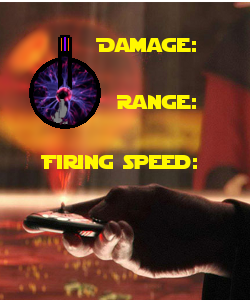
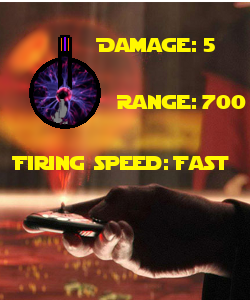
generator, info

Changed region(s): [[0.028, 0.51, 0.924, 0.57], [0.812, 0.3, 0.98, 0.36], [0.812, 0.12, 0.868, 0.18]]

diff --git a/arena.cpp b/arena.cpp
@@ -17,9 +17,10 @@ Arena::Arena(QPixmap *p)
     qp=p;
     amount=800;
 
-    LifeBar* l= new LifeBar(1000);
+    LifeBar* l= new LifeBar(1000,250);
 
     this->addPixmap(*qp);
+
 
     deathStar= new DeathStar();
     deathStar->setPos(qp->size().width()/2,qp->size().height()/2);
@@ -28,6 +29,28 @@ Arena::Arena(QPixmap *p)
 
     l->setPos(deathStar->scenePos());
     l->translate(-250,170);
+
+
+    gen1=new Generator();
+    gen2=new Generator();
+
+    LifeBar* lifgen1=new LifeBar(250,100);
+    LifeBar* lifgen2=new LifeBar(250,100);
+
+    gen1->setLifeBar(lifgen1);
+    gen2->setLifeBar(lifgen2);
+
+    gen1->setPos(600,qp->size().height()-600);
+
+    gen2->setPos(qp->size().width()-500,qp->size().height()/2-200);
+
+    lifgen1->setPos(gen1->scenePos());
+    lifgen1->translate(-250,100);
+
+    lifgen2->setPos(gen2->scenePos());
+    lifgen2->translate(-250,100);
+
+
     deploy1=new Deploy();
     deploy1->deployEnemy(0);
     deploy1->setPos(60,60);
@@ -43,8 +66,13 @@ Arena::Arena(QPixmap *p)
 
     this->addItem(deploy1);
     this->addItem(deploy2);
+    this->addItem(gen1);
+    this->addItem(gen2);
+    this->addItem(lifgen1);
+    this->addItem(lifgen2);
     this->addItem(deathStar);
     this->addItem(l);
+
 }
 
 void Arena::step()
@@ -62,6 +90,30 @@ void Arena::step()
             {
                 enemy->hit(10000);
             }
+        }
+    }
+
+    if(gen1->deactive==false)
+    {
+        gen1->step();
+        if(gen1->life<=0)
+        {
+            Explosion* exp=factoy.getExplosion(300);
+            exp->setPos(gen1->scenePos());
+            gen1->hide();
+            gen1->deactive=true;
+        }
+    }
+
+    if(gen2->deactive==false)
+    {
+        gen2->step();
+        if(gen2->life<=0)
+        {
+            Explosion* exp=factoy.getExplosion(300);
+            exp->setPos(gen2->scenePos());
+            gen2->hide();
+            gen2->deactive=true;
         }
     }
 
@@ -160,35 +212,46 @@ void Arena::mousePressEvent(QGraphicsSceneMouseEvent *event)
 {
     if(amount>0)
     {
-        if(gun==A_PRISM)
+
+        int x=event->scenePos().x();
+        int y=event->scenePos().y();
+
+        if((deathStar->scenePos().x()-x)*(deathStar->scenePos().x()-x)
+                +(deathStar->scenePos().y()-y)*(deathStar->scenePos().y()-y)<=300*300)
         {
-            PrismTower* prism1= new PrismTower();
-
-            prism1->setPos(event->scenePos().x(),event->scenePos().y());
-
-            prism1->setRadius(300);
-            prism1->setBoundingRect(QRectF(-150,-150,300,300));
-
-            Prism* missile=new Prism();
-            prism1->addPrism(missile);
-
-            towers.insert(prism1);
-            this->addItem(prism1);
-            this->addItem(missile);
-
-            amount-=prism1->getCost();
-            info->setNum(amount);
-        }else if(gun==A_PLASMA)
+            std::cout<<" brak dostepu"<<std::endl;
+        }else
         {
-            PlasmaTower* plasma= new PlasmaTower();
-            plasma->setPos(event->scenePos().x(),event->scenePos().y());
-            plasma->setRadius(800);
-            plasma->setBoundingRect(QRectF(-150,-150,300,300));
-            this->addItem(plasma);
-            towers.insert(plasma);
+            if(gun==A_PRISM)
+            {
+                PrismTower* prism1= new PrismTower();
 
-            amount-=plasma->getCost();
-            info->setNum(amount);
+                prism1->setPos(event->scenePos().x(),event->scenePos().y());
+
+                prism1->setRadius(300);
+                prism1->setBoundingRect(QRectF(-150,-150,300,300));
+
+                Prism* missile=new Prism();
+                prism1->addPrism(missile);
+
+                towers.insert(prism1);
+                this->addItem(prism1);
+                this->addItem(missile);
+
+                amount-=prism1->getCost();
+                info->setNum(amount);
+            }else if(gun==A_PLASMA)
+            {
+                PlasmaTower* plasma= new PlasmaTower();
+                plasma->setPos(event->scenePos().x(),event->scenePos().y());
+                plasma->setRadius(700);
+                plasma->setBoundingRect(QRectF(-150,-150,300,300));
+                this->addItem(plasma);
+                towers.insert(plasma);
+
+                amount-=plasma->getCost();
+                info->setNum(amount);
+            }
         }
     }else
     {

diff --git a/generator.h b/generator.h
@@ -1,0 +1,46 @@
+#ifndef GENERATOR_H
+#define GENERATOR_H
+
+
+#include <QGraphicsItem>
+#include <QPainter>
+#include <QStyleOption>
+#include "lifebar.h"
+
+class Generator: public QGraphicsItem
+{
+public:
+    Generator();
+
+    void paint(QPainter *painter, const QStyleOptionGraphicsItem *option,
+               QWidget *widget);
+
+    QRectF boundingRect() const;
+    void setBoundingRect(QRectF);
+
+    void step();
+    inline void hit(double i)
+    {
+        life-=i;
+        lifebar->updateLife(life);
+        if(life<=0)
+        {
+            lifebar->hide();
+        }
+    }
+
+    inline void setLifeBar(LifeBar *l)
+    {
+        lifebar=l;
+    }
+
+    bool deactive;
+    double life;
+
+protected:
+
+    LifeBar* lifebar;
+    QRectF m_boundingRect;
+};
+
+#endif // GENERATOR_H

diff --git a/generator.cpp b/generator.cpp
@@ -1,0 +1,33 @@
+#include "generator.h"
+
+
+Generator::Generator()
+{
+    m_boundingRect=QRectF(-240/4,-180/4,480/4,360/4);
+    life=1000;
+    deactive=false;
+}
+
+void Generator::paint(QPainter *painter, const QStyleOptionGraphicsItem *, QWidget *)
+{
+    QPixmap ship(":/data/generator.png");
+    painter->drawPixmap(QRect(-240/4,-180/4,480/4,360/4),ship);
+    //painter->setPen(Qt::white);
+    //painter->drawEllipse(-145,-145,290,290);
+}
+
+void Generator::step()
+{
+    this->rotate(0.08);
+    //lifebar->updateLife(lifebar->life-1);
+}
+
+QRectF Generator::boundingRect() const
+{
+    return m_boundingRect;
+}
+
+void Generator::setBoundingRect(QRectF rect)
+{
+    m_boundingRect=rect;
+}

diff --git a/deploy.cpp b/deploy.cpp
@@ -12,12 +12,12 @@ Deploy::Deploy()
 void Deploy::paint(QPainter *painter, const QStyleOptionGraphicsItem *, QWidget *)
 {
     painter->setPen(QPen(Qt::NoPen));
-    painter->setBrush(QColor(0,0,0,195));
+    painter->setBrush(QColor(0,0,0,220));
     painter->drawEllipse(0,0,200,200);
-    painter->setBrush(QColor(0,0,0,200));
+    /*painter->setBrush(QColor(0,0,0,200));
     painter->drawEllipse(25,25,150,150);
     painter->setBrush(QColor(0,0,0,250));
-    painter->drawEllipse(50,50,100,100);
+    painter->drawEllipse(50,50,100,100);*/
 
 }
 

diff --git a/lifebar.cpp b/lifebar.cpp
@@ -1,7 +1,8 @@
 #include "lifebar.h"
 
-LifeBar::LifeBar(int life):life(life)
+LifeBar::LifeBar(int life,int size):life(life),size(size)
 {
+    sizeLife=life/size;
 }
 
 
@@ -15,8 +16,8 @@ void LifeBar::paint(QPainter *painter, const QStyleOptionGraphicsItem *, QWidget
     painter->setPen(Qt::black);
 
     painter->setBrush(Qt::red);
-    painter->drawRect(125,5,250,10);
+    painter->drawRect(125,5,size,10);
 
     painter->setBrush(Qt::green);
-    painter->drawRect(125,5,(life/4),10);
+    painter->drawRect(125,5,(life/sizeLife),10);
 }

diff --git a/lifebar.h b/lifebar.h
@@ -9,7 +9,7 @@
 class LifeBar : public QGraphicsItem
 {
 public:
-    LifeBar(int life);
+    LifeBar(int life,int size);
 
     QRectF boundingRect() const;
     void setBoundingRect(QRectF);
@@ -25,8 +25,10 @@ public:
     }
 
     int life;
+    int size;
 private:
     QRectF m_boundingRect;
+    int sizeLife;
     //int life;
 
 };

diff --git a/missile.cpp b/missile.cpp
@@ -103,7 +103,7 @@ Plasma::Plasma()
     slidefriction = 0.96;
     rotfriction = 0.98;
     isEnemy=false;
-    damage=2;
+    damage=5;
 }
 
 void Plasma::reset()
@@ -120,7 +120,7 @@ void Plasma::reset()
     slidefriction = 0.96;
     rotfriction = 0.98;
     isEnemy=false;
-    damage=1;
+    damage=5;
 }
 
 void Plasma::control()

diff --git a/prismtower.cpp b/prismtower.cpp
@@ -8,7 +8,7 @@
 PrismTower::PrismTower()
 {
     radius=1;
-    cost=50;
+    cost=30;
     weapon1state=0;
     fire=false;
     enemy=NULL;
@@ -53,7 +53,7 @@ void PrismTower::control()
     {
         if(weapon1state==0)
         {
-            weapon1state=100;
+            weapon1state=90;
             weaponFire();
         }
 

diff --git a/arena.h b/arena.h
@@ -11,6 +11,7 @@
 #include "factory.h"
 #include "tower.h"
 #include "deathstar.h"
+#include "generator.h"
 #include "deploy.h"
 
 class Tower;
@@ -52,6 +53,8 @@ private:
     GUNS gun;
     QPixmap* qp;
     DeathStar* deathStar;
+    Generator* gen1;
+    Generator* gen2;
 
     QString* info;
 

diff --git a/mainwindow.cpp b/mainwindow.cpp
@@ -74,9 +74,9 @@ void MainWindow::MainClockTick()
 
 void MainWindow::wheelEvent( QWheelEvent *event )
 {
+
     float scale = 1.0 + event->delta()*0.001;
     ui->gameView->scale(scale,scale);
-
     std::cout<<"Main window event wheel"<<std::endl;
     event->accept();
 }
